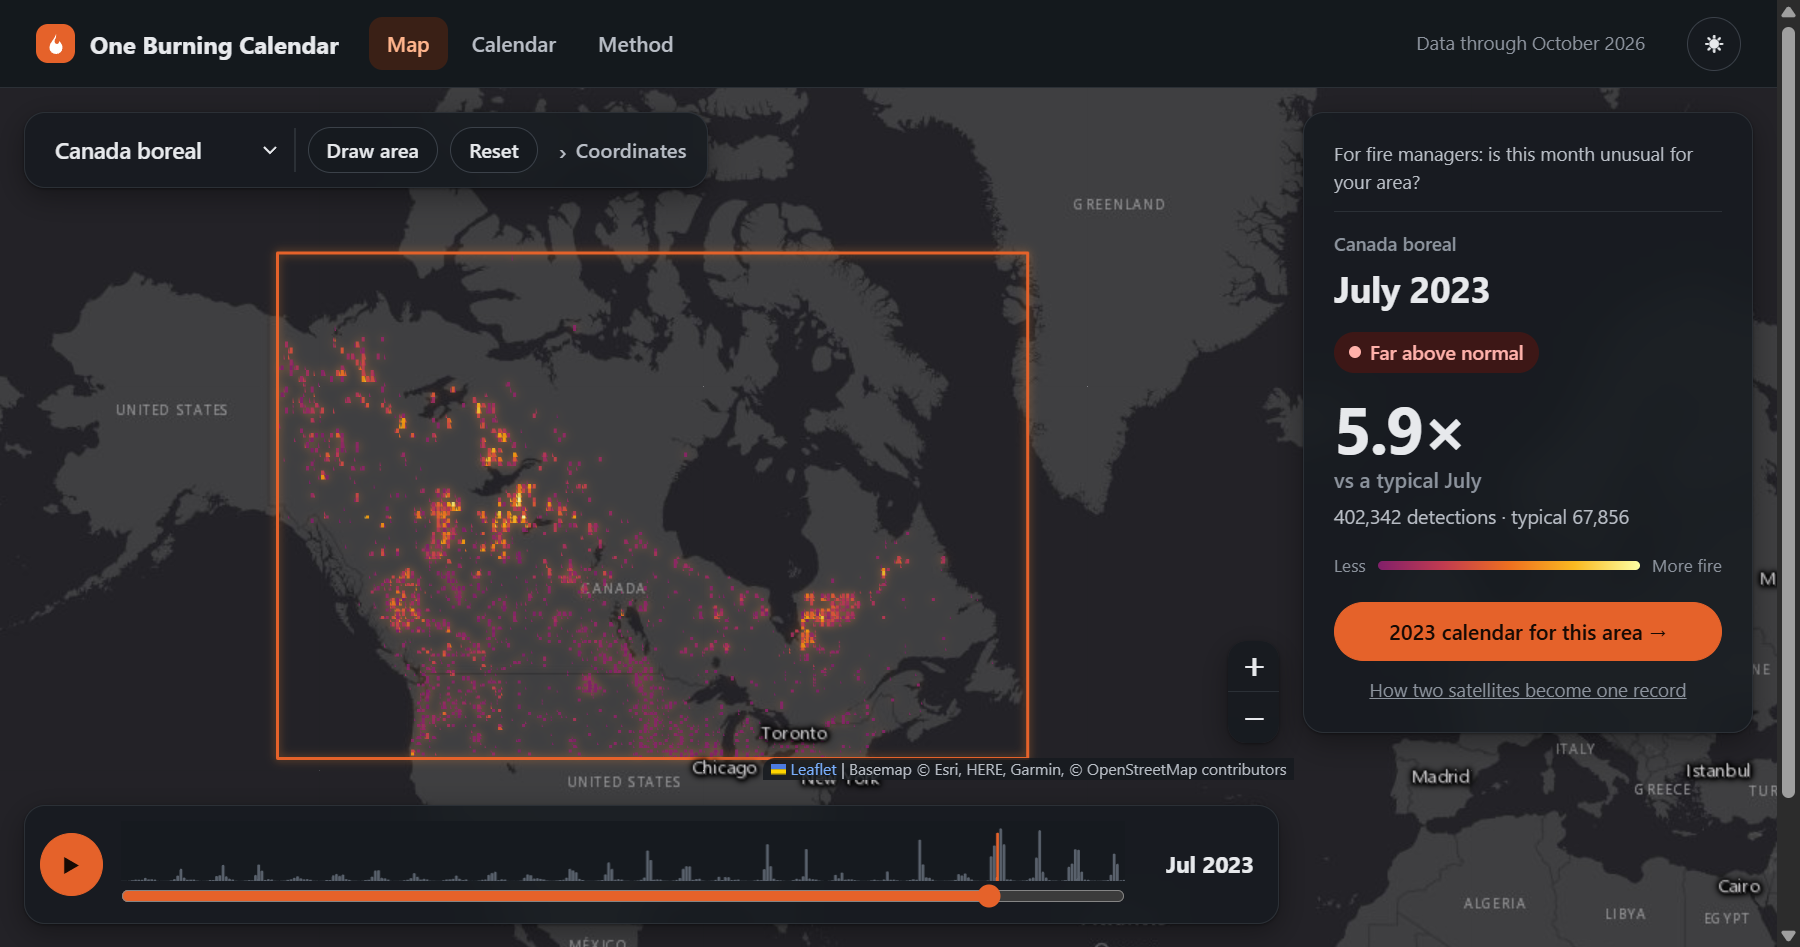
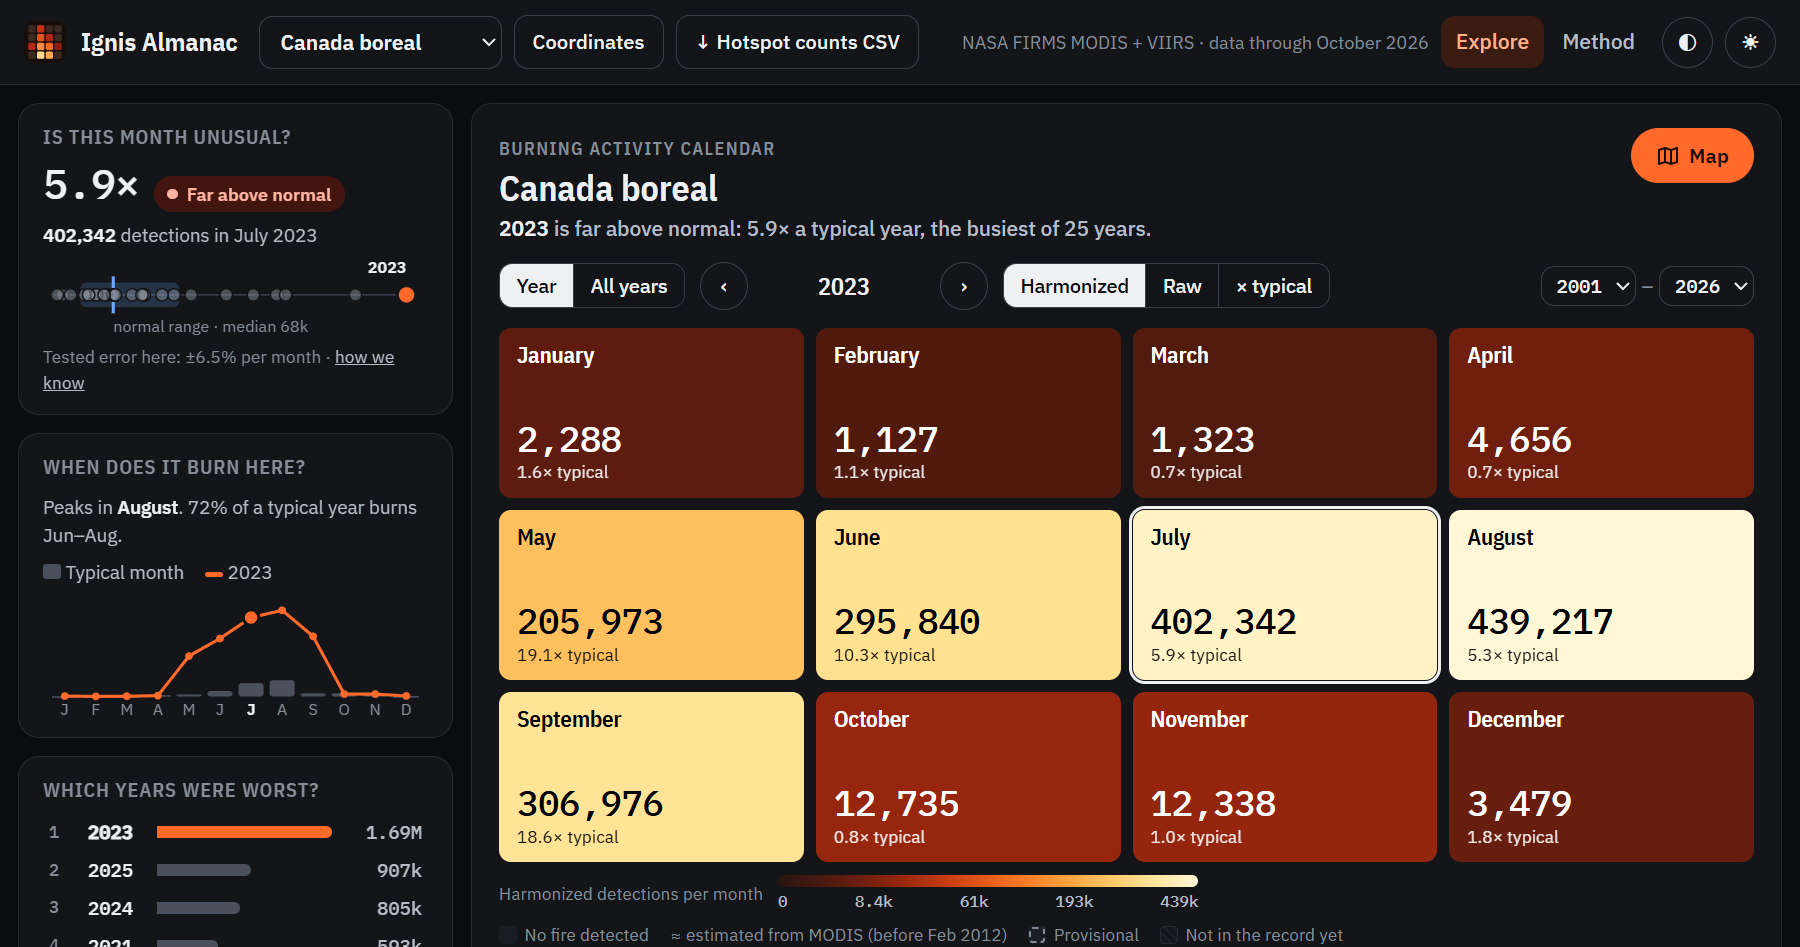
Keep the normal range label inside its chart and retake the link preview image

diff --git a/app/explore.js b/app/explore.js
@@ -202,7 +202,7 @@
     const y = A.y, m = A.m, k = metric(y, m), st = O.status(k.ratio), s = A.stats[m], W = 250;
     const vals = []; for (let yy = O.FIRST_YEAR; yy <= END().year; yy++) { const kk = metric(yy, m); if (kk) vals.push({ y: yy, v: kk.h }); }
     const mx = Math.max(1, s.p90, ...vals.map(o => o.v)) * 1.03, X = v => 7 + v / mx * (W - 14), xs = X(k.h), xm = X(s.p50);
-    const anchor = x => x < 34 ? "start" : x > W - 34 ? "end" : "middle";
+    const anchor = (x, half = 34) => x < half ? "start" : x > W - half ? "end" : "middle";   // half = half the label width, so it stays inside the chart
     const svg = `<svg viewBox="0 0 ${W} 48" role="img" aria-label="${O.MONTH[m - 1]} in every year since ${O.FIRST_YEAR}: ${y} against the normal range.">
       <line x1="7" x2="${W - 7}" y1="22" y2="22" stroke="var(--line-2)"/>
       <rect x="${X(s.p10).toFixed(1)}" y="14" width="${Math.max(2, X(s.p90) - X(s.p10)).toFixed(1)}" height="16" rx="4" fill="var(--blue-soft)"/>
@@ -210,7 +210,7 @@
       ${vals.filter(o => o.y !== y).map(o => `<circle class="hit" data-y="${o.y}" data-m="${m}" cx="${X(o.v).toFixed(1)}" cy="22" r="4" fill="var(--ink-3)" fill-opacity=".5" stroke="var(--card)" stroke-width="1"/>`).join("")}
       <circle class="dot" cx="${xs.toFixed(1)}" cy="22" r="6"/>
       <text x="${xs.toFixed(1)}" y="8" text-anchor="${anchor(xs)}" style="fill:var(--ink);font-weight:600">${y}</text>
-      <text x="${xm.toFixed(1)}" y="46" text-anchor="${anchor(xm)}">normal range · median ${O.fmtK(s.p50)}</text></svg>`;
+      <text x="${xm.toFixed(1)}" y="46" text-anchor="${anchor(xm, 66)}">normal range · median ${O.fmtK(s.p50)}</text></svg>`;
     const flags = [O.isEst(y, m) && "≈ estimated from MODIS", O.isProv(y, m) && "provisional"].filter(Boolean).join(" · ");
     const p = O.presetFor(A.bbox), acc = p && O.ACCURACY[p.id];
     $("q1").innerHTML = `<div class="hero"><span class="big">${k.ratio == null ? "—" : k.ratio.toFixed(1) + "×"}</span><span class="pill status-${st.key}">${O.statusText(st)}</span></div>
